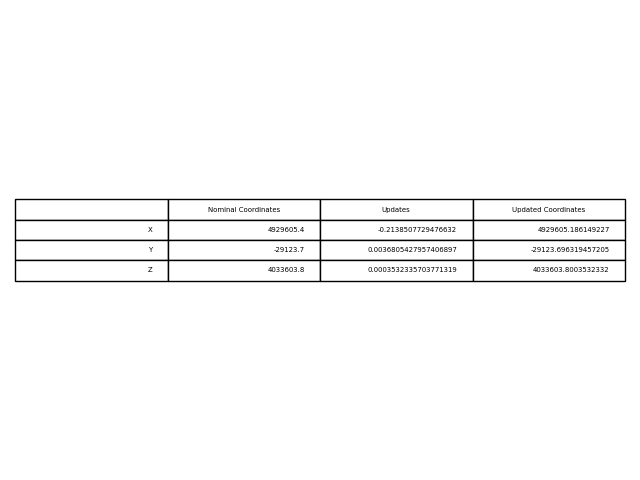
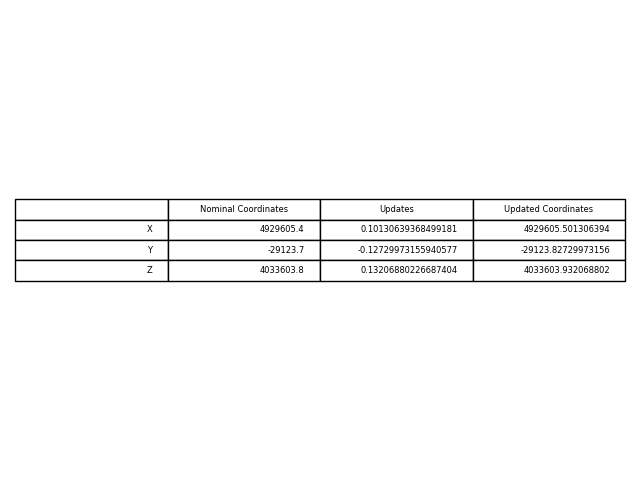
Fix: Wrong inputs to DD class - Bug fixed

Changed region(s): [[0.7812, 0.4062, 0.9688, 0.5938], [0.5625, 0.4062, 0.7188, 0.5938], [0.3125, 0.4062, 0.4688, 0.5938]]

diff --git a/Computations.py b/Computations.py
@@ -126,17 +126,13 @@ G24toG13_after = -4.000
 G24toG12_after = 35.000
 G24toG10_after = 12.000
 
-a_a_r = [G24toG19_after, G24toG18_after, G24toG17_after, G24toG15_after, G24toG13_after, G24toG12_after, G24toG10_after]
-
-# Calculate the noise of each measurement.
-G24toG19_noise = G24toG19_before - G24toG19_after
-G24toG18_noise = G24toG18_before - G24toG18_after
-G24toG17_noise = G24toG17_before - G24toG17_after
-G24toG15_noise = G24toG15_before - G24toG15_after
-G24toG13_noise = G24toG13_before - G24toG13_after
-G24toG12_noise = G24toG12_before - G24toG12_after
-G24toG10_noise = G24toG10_before - G24toG10_after
-
+a_a_r = [G24toG19_after,
+         G24toG18_after,
+         G24toG17_after,
+         G24toG15_after,
+         G24toG13_after,
+         G24toG12_after,
+         G24toG10_after]
 
 G24_base_var = Variance(sat_coords=G24, receiver_coords=pillar_1A_base, L1=True)
 G24_rover_var = Variance(sat_coords=G24, receiver_coords=pillar_3A_rover, L1=True)
@@ -369,6 +365,8 @@ if __name__ == "__main__":
     for i in range(len(Dsl)):
         DD_s_p_a.append(Dsl[i] - a_a_r[i])
 
+    print("Observed:", DD_s_p_a)
+
 
     vec2 = Dsl.reshape(Dsl.shape[0], 1)
     ax = sns.heatmap((vec2),
@@ -487,49 +485,49 @@ if __name__ == "__main__":
     """
     G24G19 = DD(L1=True,
                 ref_station=pillar_1A_base,
-                rov_station=after_ambiguity_resolution,
+                rov_station=pillar_3A_rover,
                 corresponding_sat=G19,
                 sat_ref=G24,
                 DD_s_p_a=DD_s_p_a[0])
 
     G24G18 = DD(L1=True,
                 ref_station=pillar_1A_base,
-                rov_station=after_ambiguity_resolution,
+                rov_station=pillar_3A_rover,
                 corresponding_sat=G18,
                 sat_ref=G24,
                 DD_s_p_a=DD_s_p_a[1])
 
     G24G17 = DD(L1=True,
                 ref_station=pillar_1A_base,
-                rov_station=after_ambiguity_resolution,
+                rov_station=pillar_3A_rover,
                 corresponding_sat=G17,
                 sat_ref=G24,
                 DD_s_p_a=DD_s_p_a[2])
 
     G24G15 = DD(L1=True,
                 ref_station=pillar_1A_base,
-                rov_station=after_ambiguity_resolution,
+                rov_station=pillar_3A_rover,
                 corresponding_sat=G15,
                 sat_ref=G24,
                 DD_s_p_a=DD_s_p_a[3])
 
     G24G13 = DD(L1=True,
                 ref_station=pillar_1A_base,
-                rov_station=after_ambiguity_resolution,
+                rov_station=pillar_3A_rover,
                 corresponding_sat=G13,
                 sat_ref=G24,
                 DD_s_p_a=DD_s_p_a[4])
 
     G24G12 = DD(L1=True,
                 ref_station=pillar_1A_base,
-                rov_station=after_ambiguity_resolution,
+                rov_station=pillar_3A_rover,
                 corresponding_sat=G12,
                 sat_ref=G24,
                 DD_s_p_a=DD_s_p_a[5])
 
     G24G10 = DD(L1=True,
                 ref_station=pillar_1A_base,
-                rov_station=after_ambiguity_resolution,
+                rov_station=pillar_3A_rover,
                 corresponding_sat=G10,
                 sat_ref=G24,
                 DD_s_p_a=DD_s_p_a[6])
@@ -547,6 +545,7 @@ if __name__ == "__main__":
                   [G24G13.calc_b_vector()],
                   [G24G12.calc_b_vector()],
                   [G24G10.calc_b_vector()]])
+
 
     ax = sns.heatmap((b),
                 annot=True,
@@ -607,73 +606,17 @@ if __name__ == "__main__":
     plt.savefig("Matrices/(ATWA)^-1 Matrix")
     plt.show()
 
-    print(inverse_atwa)
-
     ATWb = (transpose(A).dot(Wd)).dot(b)
 
     x_hat = inverse_atwa.dot(ATWb)
 
-    x = x_hat[0]
-    y = x_hat[1]
-    z = x_hat[2] 
+    x = x_hat[0] * 1/wl
+    y = x_hat[1] * 1/wl
+    z = x_hat[2] * 1/wl
     print(x)
     print(y)
     print(z)
 
-
-    # Calculate X_hat
-    X_hat = calculate_x_hat(A, Wd, b)
-
-    L1_wl = 0.19029367
-
-
-    X_hat = [(X_hat[0]/wl), (X_hat[1]/wl), (X_hat[2]/wl)]
-    print(X_hat)
-
-
-
-    updated_pillar_3A = [(pillar_3A_rover[0] + X_hat[0]), (pillar_3A_rover[1] + X_hat[1]), (pillar_3A_rover[2] + X_hat[2])]
-
-
-
-    """
-    Table to display final results
-    """
-    table = np.array([["X", float(pillar_3A_rover[0]), float(X_hat[0]), float(updated_pillar_3A[0])],
-                     ["Y", float(pillar_3A_rover[1]), float(X_hat[1]), float(updated_pillar_3A[1])],
-                      ["Z", float(pillar_3A_rover[2]), float(X_hat[2]), float(updated_pillar_3A[2])]])
-
-    fig, ax = plt.subplots()
-    fig.patch.set_visible(False)
-    ax.axis('off')
-    ax.axis('tight')
-    columns = [" ", "Nominal Coordinates", "Updates", "Updated Coordinates"]
-    df = pd.DataFrame(table, columns=columns)
-    ax.table(cellText=df.values, colLabels=df.columns, loc='center')
-    fig.tight_layout()
-    plt.savefig("Matrices/Nominal and Updated Coords")
-    plt.show()
-
-
-    """
-    As a performance test, the computed distances between pillar 1A and pillar 3A are compared.
-    """
-    # print("Nominal: ", distance(pillar_1A_base, updated_pillar_3A))
-    # print("Updated: ", distance(pillar_1A_base, pillar_3A_rover))
-
-    table = np.array([["Nominal: ", distance(pillar_1A_base, pillar_3A_rover)],
-                      ["Updated: ", distance(pillar_1A_base, updated_pillar_3A)]])
-
-    fig, ax = plt.subplots()
-    fig.patch.set_visible(False)
-    ax.axis('off')
-    ax.axis('tight')
-    columns = [" ", "Distance between Pillars (m)"]
-    df = pd.DataFrame(table, columns=columns)
-    ax.table(cellText=df.values, colLabels=df.columns, loc='center')
-    fig.tight_layout()
-    plt.savefig("Matrices/Nominal Vs Updated Distances")
-    plt.show()
 
 
 
